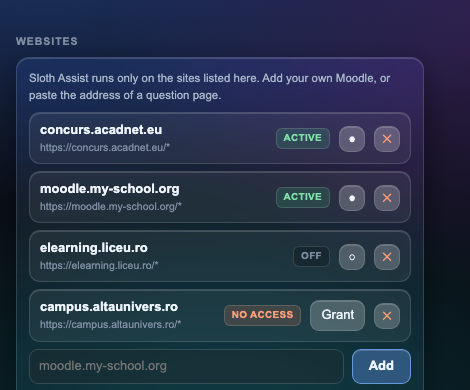
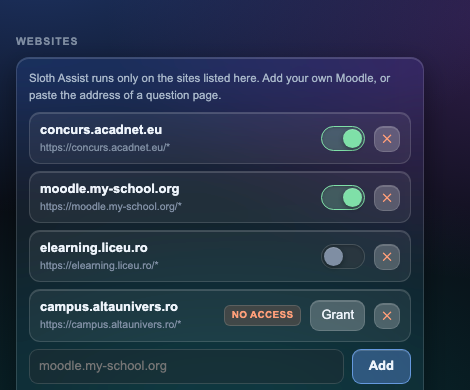
Websites: flick a site on or off with a switch

Changed region(s): [[0.5957, 0.4615, 0.7745, 0.5538], [0.5957, 0.3077, 0.7745, 0.4], [0.6255, 0.6154, 0.7745, 0.7077]]

diff --git a/manager.js b/manager.js
@@ -424,21 +424,13 @@
     host.appendChild(small);
     row.appendChild(host);
 
-    var tag = document.createElement('span');
     if (!granted) {
+      var tag = document.createElement('span');
       tag.className = 'tag need';
       tag.textContent = 'no access';
       tag.title = 'Chrome has not granted access to this site yet';
-    } else if (site.enabled === false) {
-      tag.className = 'tag off';
-      tag.textContent = 'off';
-    } else {
-      tag.className = 'tag on';
-      tag.textContent = 'active';
-    }
-    row.appendChild(tag);
+      row.appendChild(tag);
 
-    if (!granted) {
       var grant = document.createElement('button');
       grant.textContent = 'Grant';
       grant.title = 'Ask Chrome for access to this site';
@@ -450,12 +442,17 @@
       });
       row.appendChild(grant);
     } else {
+      var on = site.enabled !== false;
       var toggle = document.createElement('button');
-      toggle.className = 'icon';
-      toggle.textContent = site.enabled === false ? '\u25cb' : '\u25cf';
-      toggle.title = site.enabled === false ? 'Turn it back on' : 'Turn it off without removing it';
+      toggle.className = 'switch';
+      toggle.setAttribute('role', 'switch');
+      toggle.setAttribute('aria-checked', on ? 'true' : 'false');
+      toggle.setAttribute('aria-label', AQH.patternLabel(site.pattern));
+      toggle.title = on ? 'Running here - click to switch it off' : 'Switched off - click to run here again';
+      toggle.appendChild(document.createElement('span')).className = 'knob';
       toggle.addEventListener('click', function () {
-        site.enabled = site.enabled === false;
+        site.enabled = !on;
+        toggle.setAttribute('aria-checked', site.enabled ? 'true' : 'false');
         saveSites(AQH.patternLabel(site.pattern) + (site.enabled ? ' is on again.' : ' is off.'));
       });
       row.appendChild(toggle);

diff --git a/manager.html b/manager.html
@@ -192,6 +192,29 @@
   .site .tag.on { color: var(--pos); background: var(--pos-fill); }
   .site .tag.off { color: var(--ink-faint); background: var(--glass-lo); }
   .site .tag.need { color: var(--neg); background: var(--neg-fill); }
+  .switch {
+    position: relative; flex-shrink: 0;
+    width: 44px; height: 25px; padding: 0;
+    border-radius: 999px;
+    background: var(--glass-lo);
+    border: 1px solid var(--stroke);
+    box-shadow: inset 0 1px 3px rgba(0, 0, 0, .22);
+    transition: background .2s ease, border-color .2s ease;
+  }
+  .switch:hover { border-color: var(--stroke-hi); }
+  .switch .knob {
+    position: absolute; top: 2px; left: 2px;
+    width: 19px; height: 19px;
+    border-radius: 50%;
+    background: var(--ink-faint);
+    box-shadow: 0 2px 5px rgba(0, 0, 0, .35), inset 0 1px 0 var(--sheen);
+    transition: transform .2s cubic-bezier(.34, 1.56, .64, 1), background .2s ease;
+  }
+  .switch[aria-checked="true"] { background: var(--pos-fill); border-color: var(--pos); }
+  .switch[aria-checked="true"] .knob { transform: translateX(19px); background: var(--pos); }
+  .switch:active .knob { transform: scale(.92) translateX(0); }
+  .switch[aria-checked="true"]:active .knob { transform: scale(.92) translateX(19px); }
+
   .add-row { display: flex; gap: 8px; align-items: stretch; }
   .add-row input { margin-top: 0; }
   .add-row button { flex-shrink: 0; padding-left: 16px; padding-right: 16px; }

diff --git a/README.md b/README.md
@@ -4,7 +4,7 @@
 
 # Sloth Assist
 
-**Because clicking 6 grade dropdowns by hand is "work hard" instead of "work smart", and we don't do that here :))**
+**Because clicking 6 grade dropdowns by hand is "work hard" instead of "work smart" and we don't do that here :))**
 
 A Chrome extension for the Moodle question bank is the solution for the momment.
 It adds the blank answers for you and fills every grade dropdown from a template,
@@ -151,15 +151,15 @@ up there from the next page load.
 <img src="docs/screenshot-websites.png" width="440" alt="The Websites section of the Sloth Assist manager">
 </div>
 
-Each site in the list shows its state and what you can do with it:
+Every site has its own switch:
 
-| Badge | Meaning |
+| | Meaning |
 |---|---|
-| **active** | granted and running there |
-| **off** | kept in the list but not running - the ● button switches it back on |
-| **no access** | Chrome's permission is missing (you declined it, or removed it later in Chrome's own settings) - press **Grant** to ask again |
+| switch **on**, green | Sloth Assist is running there |
+| switch **off**, grey | the site stays on the list but nothing runs there - flick it back any time |
+| **no access** + **Grant** | Chrome's permission is missing, because you declined it or removed it later in Chrome's own settings; press **Grant** to ask again |
 
-The ✕ button removes a site and hands its permission back to Chrome.
+The ✕ button removes a site for good and hands its permission back to Chrome.
 
 Two useful details:
 
